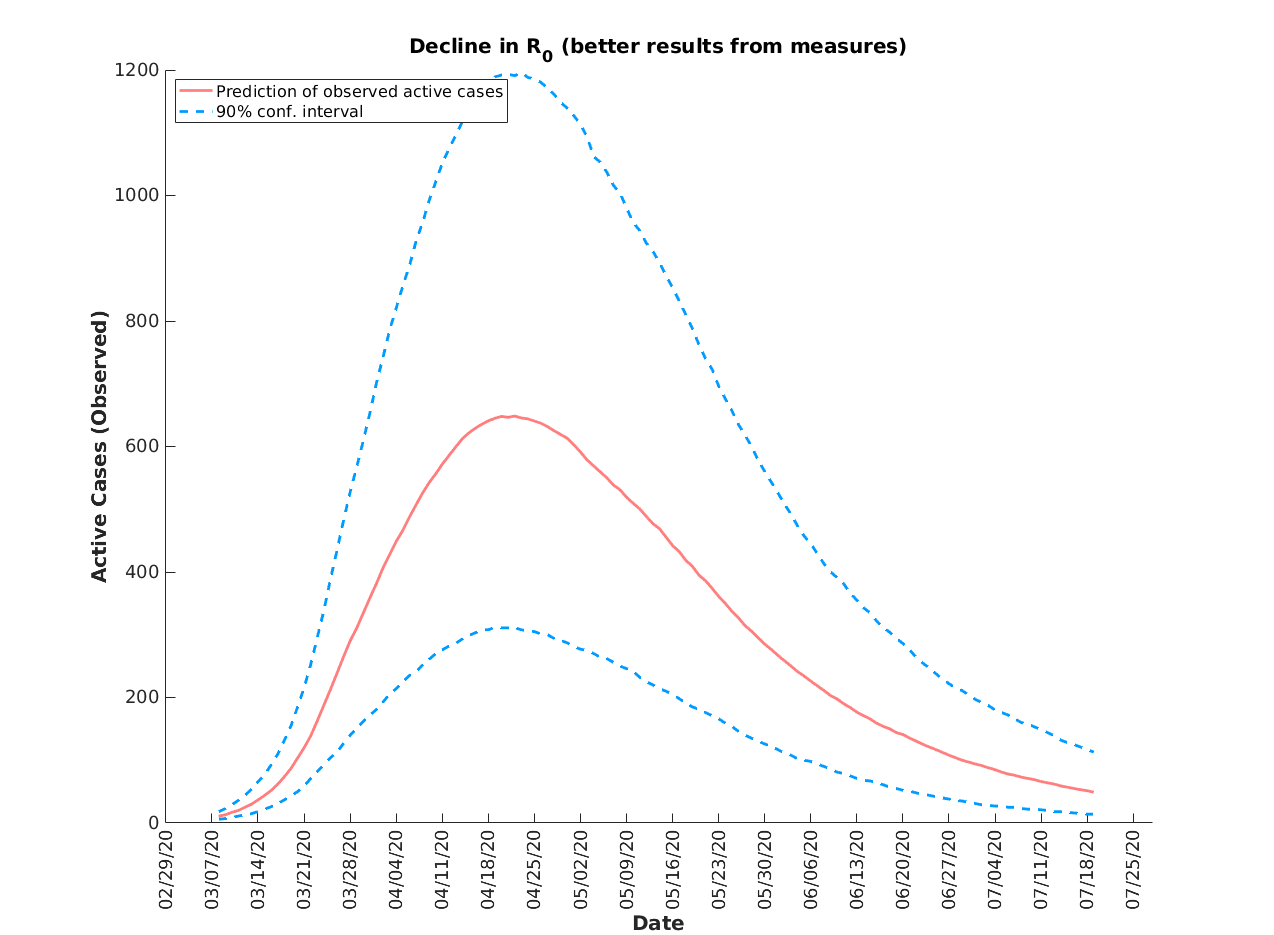
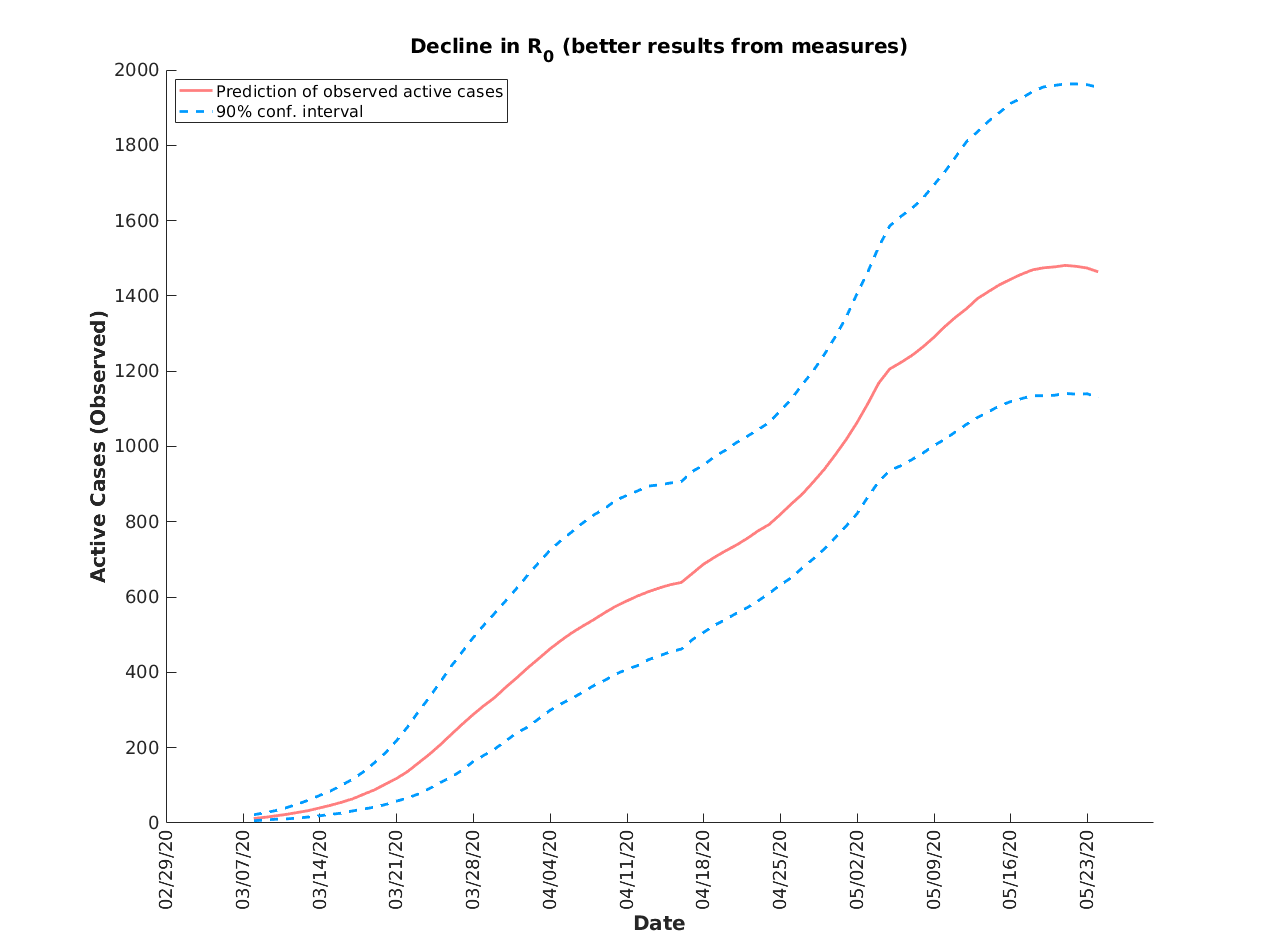
Add files via upload

diff --git a/COVID19 Models/Bulgaria/COVID19_Bulgaria.m b/COVID19 Models/Bulgaria/COVID19_Bulgaria.m
@@ -16,7 +16,7 @@ detection_time = 8;     % assumes 2 days after the symptoms develop (on average)
 num_days_passed = dates(end)-dates(1) + 1 + detection_time;   % days passed since the infection began = days since first case + detection time needed
 
 sim_num=1000;    % number of simulations to perform
-horizon=90;     % horizon in days, after the last available data
+horizon=30;     % horizon in days, after the last available data
 T=num_days_passed+horizon;          % the simulation period for the process, from the first infected to horizon 
 h=0.5;          % the time step is 0.5 day
 omega=60;           % no one is infected for more than omega days, technical parameter that does not need to be accurate, smaller -> faster speed, 
@@ -67,18 +67,37 @@ Z_0=@()(mnrnd(2, age_struct_prob)');
 %R0 = [ ones(1,T/h+1-(7+days_before_quarantine+horizon-detection_time)/h)*0.85 ones(1,(horizon-detection_time)/h)*0.85];
 % T/7    % number of weeks since the beginning
 
-R0 = [linspace(8, 8, 7/h) linspace(8, 5, 7/h) linspace(5, 4, 7/h) linspace(4, 1.5, 7/h) ...
-      linspace(1.5, 0.9, 7/h) linspace(0.9, 0.9, 3*7/h) ...
-      linspace(0.9, 0.9, T/h+1-(8*7+horizon-detection_time)/h) linspace(0.9, 0.9, (horizon-detection_time)/h)];
+R0 = [linspace(8, 7, 7/h) linspace(7, 4.1, 7/h) linspace(4.1, 3.5, 7/h) linspace(3.5, 0.7, 7/h) ...
+      linspace(0.7, 0.55, 7/h) linspace(0.55, 0.6, 7/h) linspace(0.6, 0.6, 4/h) linspace(1.5, 1.8, 10/h) ...
+      linspace(1.8, 1.8, T/h+1-(8*7+horizon-detection_time)/h) linspace(1.8, 1.8, (horizon-detection_time)/h)];
+
 mu_covid_pdf=gampdf(0:h:omega, 7.2734, 1.3240)';
 mu_matrix=zeros(size(mu_covid_pdf,1), 1, T/h+1);
 mu_matrix(:,1,:)=R0.*repmat(mu_covid_pdf/(sum(mu_covid_pdf)*h),1, T/h+1);
 mu=@()(mu_matrix);      % the input format for mu is described in the BranchingProcessSimulator.m
 
+% The immigration is actually the number of people who returned home without any symptoms but infected other people. The ones that were diagnosed 
+% get isolated and cannot infect others. Thus, this number is a pure speculation in this model as we do not have data on that. 
+% But it is important to notice that we have 2 main options to fit the model to the data: though R0 and through immigration.
+% Increasing R0 increases the confidence intervals and you may notice that at some point they become too wide to correspond to reality.
+% If they are too wide comparing to the data, then maybe the R0 is smaller, bu we experience immigration. Immigration does not affect the confidence
+% intervals as much as R0. This model combines hypothesis on R0 with hypothesis on Immigration, in order to fit the model to the total cases and new
+% cases, and at the same time fit the model volatility to the observed volatility of new cases. 
+% If you have other hypothesis about R0 and Immigration and how they changed in time, you can try them here in the simulation and see what happens.
+
+Im_age_struct_pdf=unifpdf(0:h:omega, 0, 8)';
+Im_age_struct_prob=Im_age_struct_pdf./(sum(Im_age_struct_pdf));
+Im_matrix=zeros(size(Im_age_struct_pdf,1), 1, T/h+1);
+Im_mass=h*[linspace(0.002, 0, 7/h) linspace(0.002, 0.002, 7/h) linspace(0.002, 0.002, 7/h) linspace(0.002, 0.15, 7/h) ...
+      linspace(0.15, 0.15, 7/h) linspace(0.10, 0.05, 3*7/h) ...
+      linspace(0, 0, T/h+1-(8*7+horizon-detection_time)/h) linspace(0, 0, (horizon-detection_time)/h)];
+
+Im=@()(Im_function(Im_mass, Im_age_struct_prob));
+
 % we can also calculate the age structure of the population which is of interest in this case
 % we can use it to calculate the percentage of people on working age, for example
 % to get the age structure use: [ActiveCases, ActiveCasesByType, ActiveCasesByAge, TotalCases, TotalCasesByTypes] = BranchingProcessSimulator(sim_num, T, h, S, H, U, Z_0, mu, 'GetAgeStructure', true);
-[ActiveCases, ~, ~, TotalCases, ~] = BranchingProcessSimulator(sim_num, T, h, S, H, U, Z_0, mu, 'GetAgeStructure', false);
+[ActiveCases, ~, ~, TotalCases, ~] = BranchingProcessSimulator(sim_num, T, h, S, H, U, Z_0, mu, Im, 'GetAgeStructure', false);
 NewCases = diff(TotalCases');
 % CuredCases = TotalCases - ActiveCases;
 
@@ -92,15 +111,15 @@ buildPlots(NewCasesDaily, TotalCasesDaily, ActiveCasesDaily, newcases_hist, date
             'MainScenario', 'No change in R_0 (no change in measures)');
 
 %% OPTIMISTIC SCENARIO model of the Point process mu, Optimistic Scenario, R0 changes from 0.8 to 0.6, from now on
-R0 = [linspace(8, 8, 7/h) linspace(8, 5, 7/h) linspace(5, 4, 7/h) linspace(4, 1.5, 7/h) ...
-      linspace(1.5, 0.9, 7/h) linspace(0.9, 0.9, 3*7/h) ...
-      linspace(0.9, 0.9, T/h+1-(8*7+horizon-detection_time)/h) linspace(0.7, 0.7, (horizon-detection_time)/h)];
+R0 = [linspace(8, 7, 7/h) linspace(7, 4.1, 7/h) linspace(4.1, 3.5, 7/h) linspace(3.5, 0.7, 7/h) ...
+      linspace(0.7, 0.55, 7/h) linspace(0.55, 0.6, 7/h) linspace(0.6, 0.6, 4/h) linspace(1.5, 1.8, 10/h) ...
+      linspace(1.8, 1.8, T/h+1-(8*7+horizon-detection_time)/h) linspace(0.8, 0.8, (horizon-detection_time)/h)];
 mu_covid_pdf=gampdf(0:h:omega, 7.2734, 1.3240)';
 mu_matrix=zeros(size(mu_covid_pdf,1), 1, T/h+1);
 mu_matrix(:,1,:)=R0.*repmat(mu_covid_pdf/(sum(mu_covid_pdf)*h),1, T/h+1);
 mu_optimistic=@()(mu_matrix);      % the input format for mu is described in the BranchingProcessSimulator.m
 
-[ActiveCases_optimistic, ~, ~, TotalCases_optimistic, ~] = BranchingProcessSimulator(sim_num, T, h, S, H, U, Z_0, mu_optimistic, 'GetAgeStructure', false);
+[ActiveCases_optimistic, ~, ~, TotalCases_optimistic, ~] = BranchingProcessSimulator(sim_num, T, h, S, H, U, Z_0, mu_optimistic, Im, 'GetAgeStructure', false);
 NewCases_optimistic = diff(TotalCases_optimistic');
 % CuredCases = TotalCases - ActiveCases;
 
@@ -114,15 +133,15 @@ buildPlots(NewCasesDaily_optimistic, TotalCasesDaily_optimistic, ActiveCasesDail
             'OptimisticScenario', 'Decline in R_0 (better results from measures)');
 
 %% PESSIMISTIC SCENARIO model of the Point process mu, Pessimistic Scenario, R0 changes from 0.8 to 1.2, from now on
-R0 = [linspace(8, 8, 7/h) linspace(8, 5, 7/h) linspace(5, 4, 7/h) linspace(4, 1.5, 7/h) ...
-      linspace(1.5, 0.9, 7/h) linspace(0.9, 0.9, 3*7/h) ...
-      linspace(0.9, 0.9, T/h+1-(8*7+horizon-detection_time)/h) linspace(1.1, 1.1, (horizon-detection_time)/h)];
+R0 = [linspace(8, 7, 7/h) linspace(7, 4.1, 7/h) linspace(4.1, 3.5, 7/h) linspace(3.5, 0.7, 7/h) ...
+      linspace(0.7, 0.55, 7/h) linspace(0.55, 0.6, 7/h) linspace(0.6, 0.6, 4/h) linspace(1.5, 1.8, 10/h) ...
+      linspace(1.8, 1.8, T/h+1-(8*7+horizon-detection_time)/h) linspace(2.5, 2.5, (horizon-detection_time)/h)];
 mu_covid_pdf=gampdf(0:h:omega, 7.2734, 1.3240)';
 mu_matrix=zeros(size(mu_covid_pdf,1), 1, T/h+1);
 mu_matrix(:,1,:)=R0.*repmat(mu_covid_pdf/(sum(mu_covid_pdf)*h),1, T/h+1);
 mu_pessimistic=@()(mu_matrix);      % the input format for mu is described in the BranchingProcessSimulator.m
 
-[ActiveCases_pessimistic, ~, ~, TotalCases_pessimistic, ~] = BranchingProcessSimulator(sim_num, T, h, S, H, U, Z_0, mu_pessimistic, 'GetAgeStructure', false);
+[ActiveCases_pessimistic, ~, ~, TotalCases_pessimistic, ~] = BranchingProcessSimulator(sim_num, T, h, S, H, U, Z_0, mu_pessimistic, Im, 'GetAgeStructure', false);
 NewCases_pessimistic = diff(TotalCases_pessimistic');
 % CuredCases = TotalCases - ActiveCases;
 

diff --git a/COVID19 Models/Bulgaria/Im_function.m b/COVID19 Models/Bulgaria/Im_function.m
@@ -1,0 +1,5 @@
+function Im_matrix = Im_function(Im_mass, Im_age_struct_prob)
+Im_matrix=zeros(size(Im_age_struct_prob,1), 1, size(Im_mass,2));
+Im_matrix(:,1,:)=mnrnd(binornd(80,Im_mass'), Im_age_struct_prob)';
+end
+
